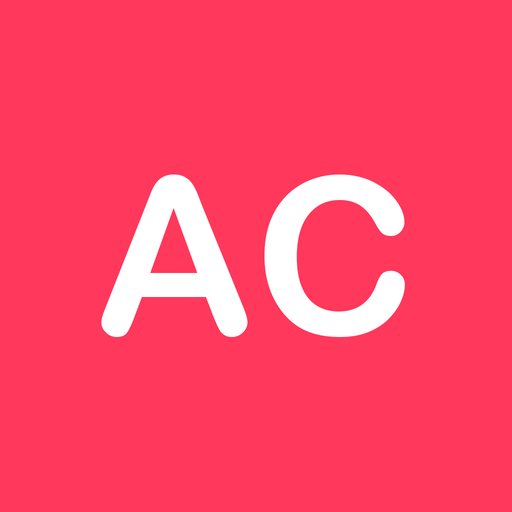
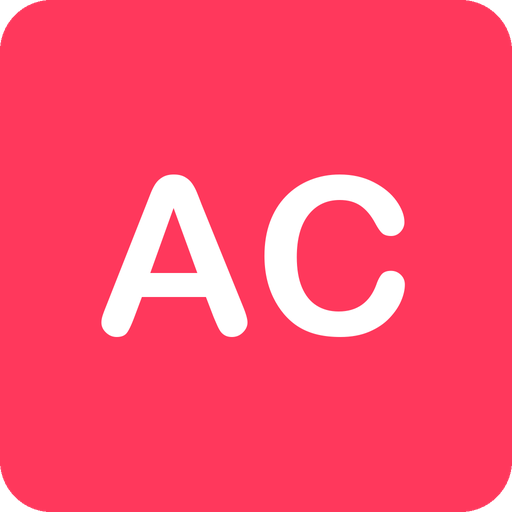
Icône : arrondi plus discret que le masque iOS, transparence conservée
Nouvelle hypothèse après analyse de l'ancien fichier (qui restait rouge
en mode sombre) : garder un peu de transparence dans les coins semble
nécessaire pour qu'iOS ne remplace pas l'icône par sa version sombre
générée automatiquement. Le bug de bords sans couleur venait lui d'un
arrondi plus prononcé que le masque squircle natif d'iOS — corrigé en
arrondissant beaucoup moins que lui, pour que son découpage tombe
toujours à l'intérieur de notre zone opaque.

diff --git a/sw.js b/sw.js
@@ -1,4 +1,4 @@
-const CACHE_NAME = 'aircover-manager-v6';
+const CACHE_NAME = 'aircover-manager-v7';
 const APP_SHELL = [
   '/',
   '/nouveau/',
